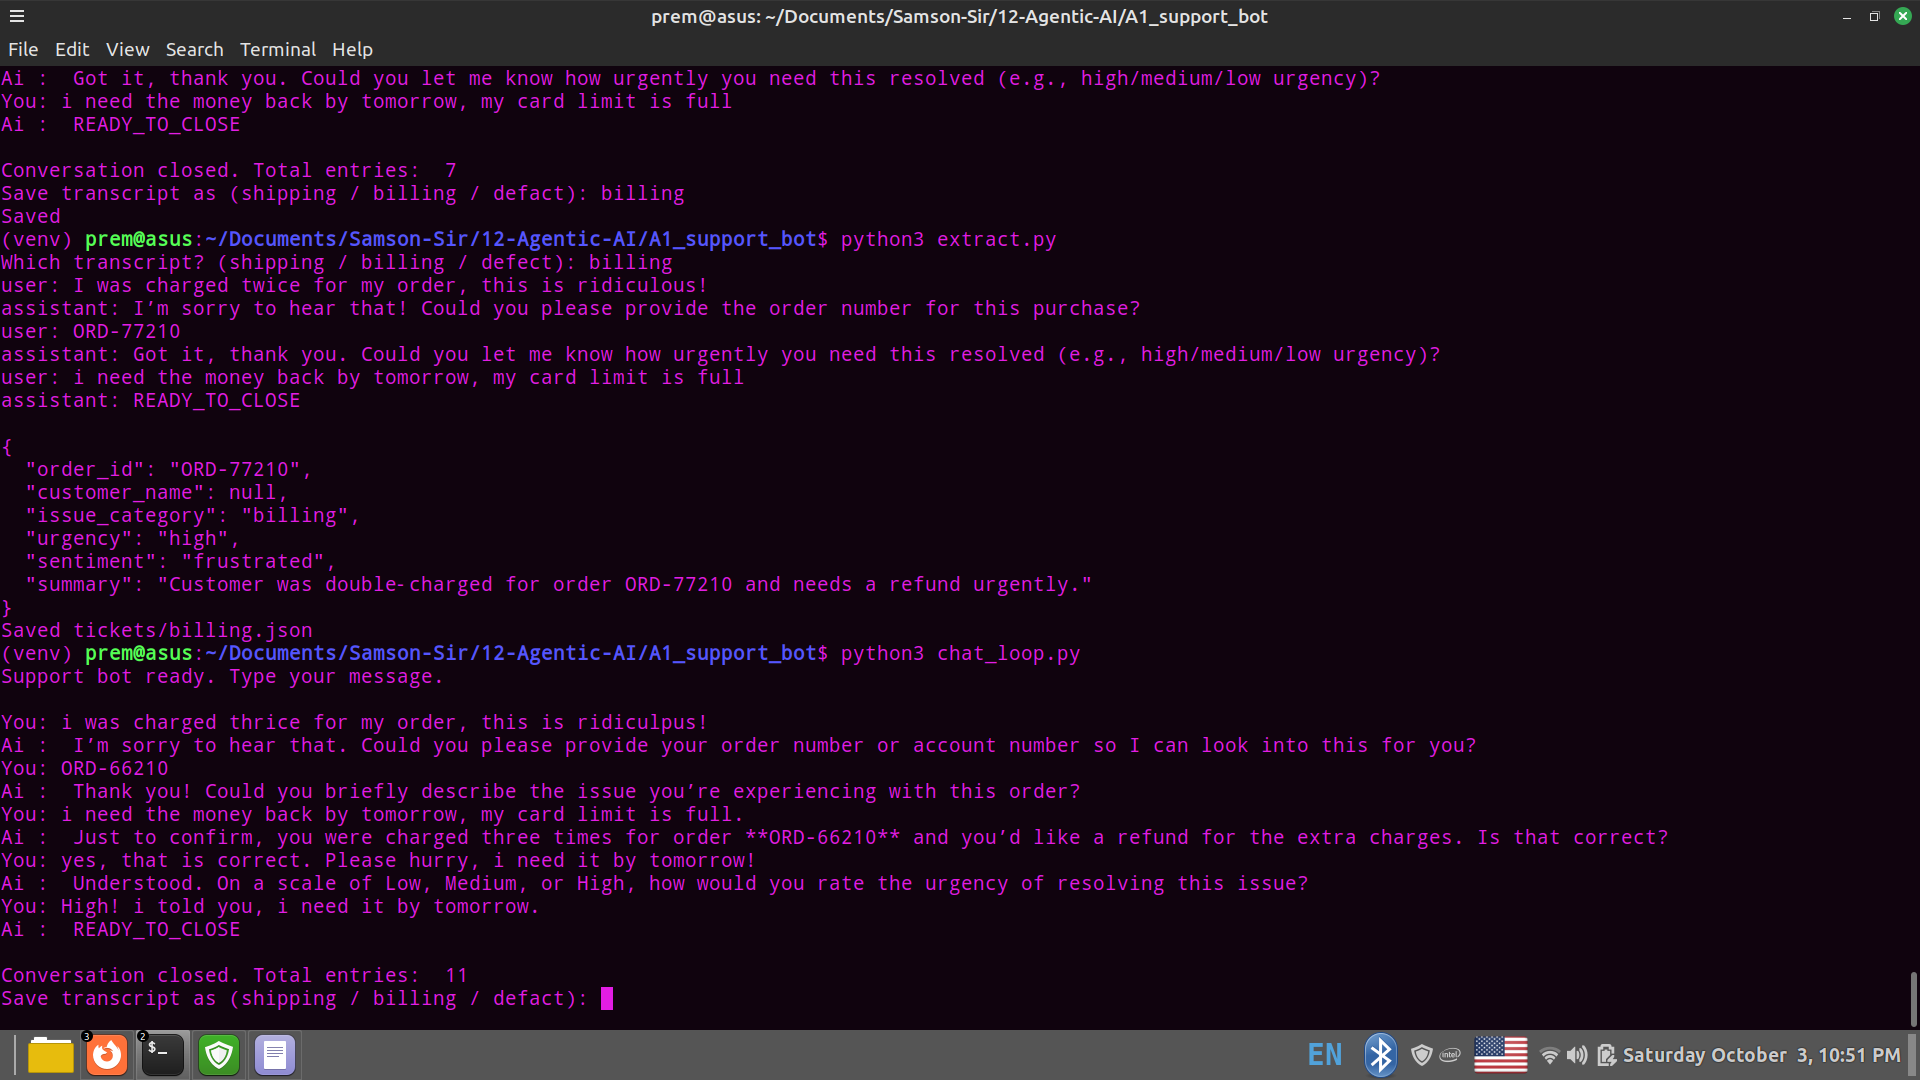
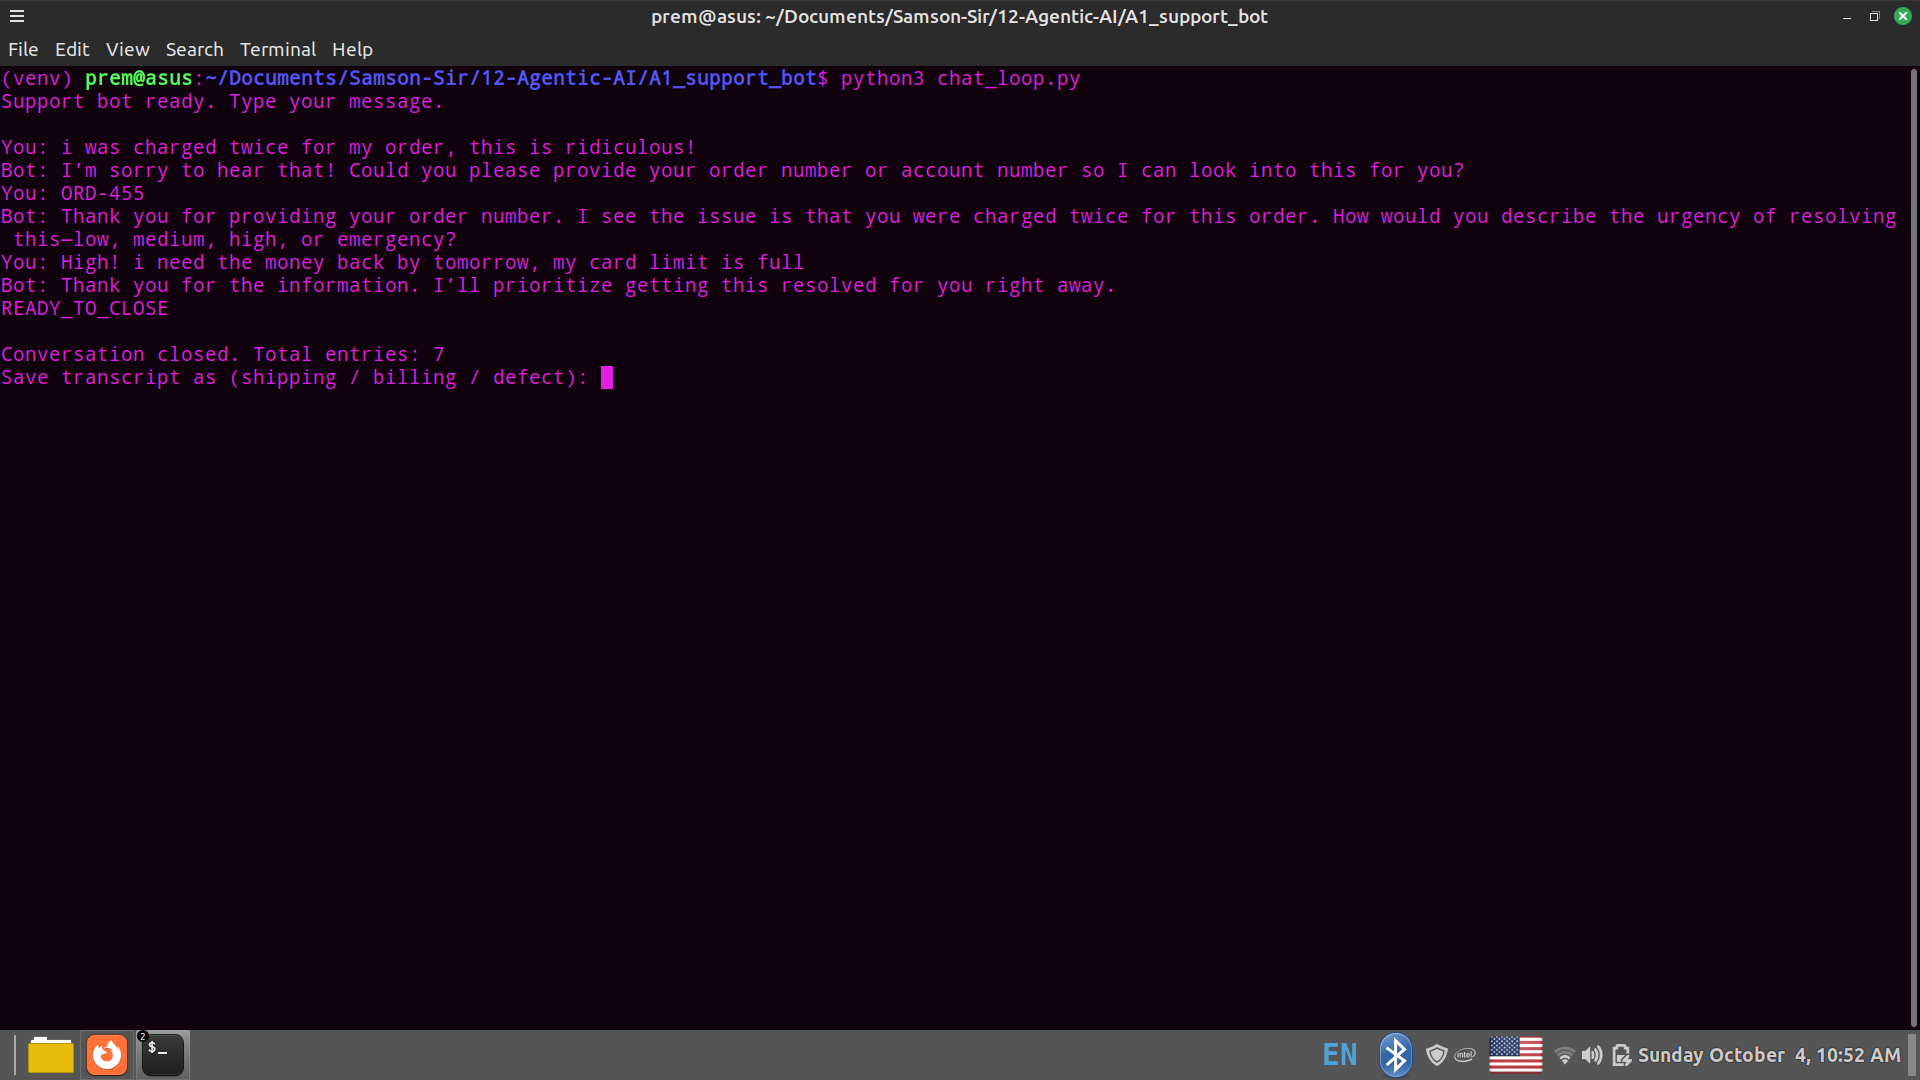
Redo 3 conversations with final prompt, few-shot and CoT

diff --git a/12-Agentic-AI/A1_support_bot/extract.py b/12-Agentic-AI/A1_support_bot/extract.py
@@ -7,7 +7,7 @@ from ticket_schema import SupportTicket
 load_dotenv()
 client = instructor.from_groq(Groq(), mode=instructor.Mode.JSON)
 
-name = input("Which transcript? (shipping / billing / defect): ")
+name = input("Which transcript? (shipping / billing / defect): ").strip()
 with open(f"transcripts/{name}.json") as f:
     messages = json.load(f)
 
